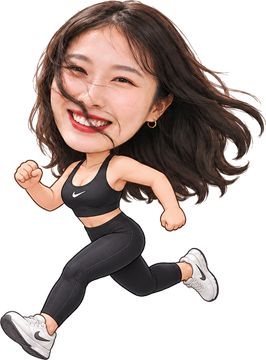
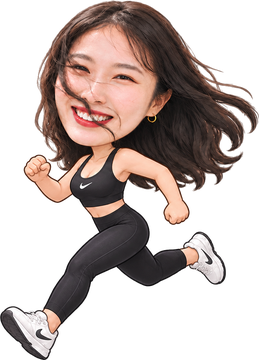
헬스걸 좌·우 캐릭터 새 원본으로 재추출 (v1.1.90)

diff --git a/index.html b/index.html
@@ -590,7 +590,7 @@
   const elFinal = document.getElementById("finalScore");
   const elTitle = document.getElementById("overTitle");
 
-  const GAME_VERSION = "v1.1.89";   // 코드를 고칠 때마다 뒤 두 자리를 올린다
+  const GAME_VERSION = "v1.1.90";   // 코드를 고칠 때마다 뒤 두 자리를 올린다
   document.getElementById("ver").textContent = GAME_VERSION;
 
   const LS_NAME = "epjpddongpi_name";
@@ -706,8 +706,8 @@
     hurt:  { img: null, aspect: 0.542, head: 0.438, cx: 0.544, cy: 0.258, adj: 0.7019 }
   };
   const SPR_FIT = {
-    left:  { img: null, aspect: 0.739, head: 0.485, cx: 0.462, cy: 0.283, adj: 0.7149 },
-    right: { img: null, aspect: 0.700, head: 0.463, cx: 0.528, cy: 0.289, adj: 0.6836 },
+    left:  { img: null, aspect: 0.719, head: 0.625, cx: 0.502, cy: 0.296, adj: 0.9219 },
+    right: { img: null, aspect: 0.717, head: 0.589, cx: 0.480, cy: 0.310, adj: 0.8686 },
     hurt:  { img: null, aspect: 0.531, head: 0.445, cx: 0.492, cy: 0.314, adj: 0.7145 }
   };
   const SPR_PJ = {
